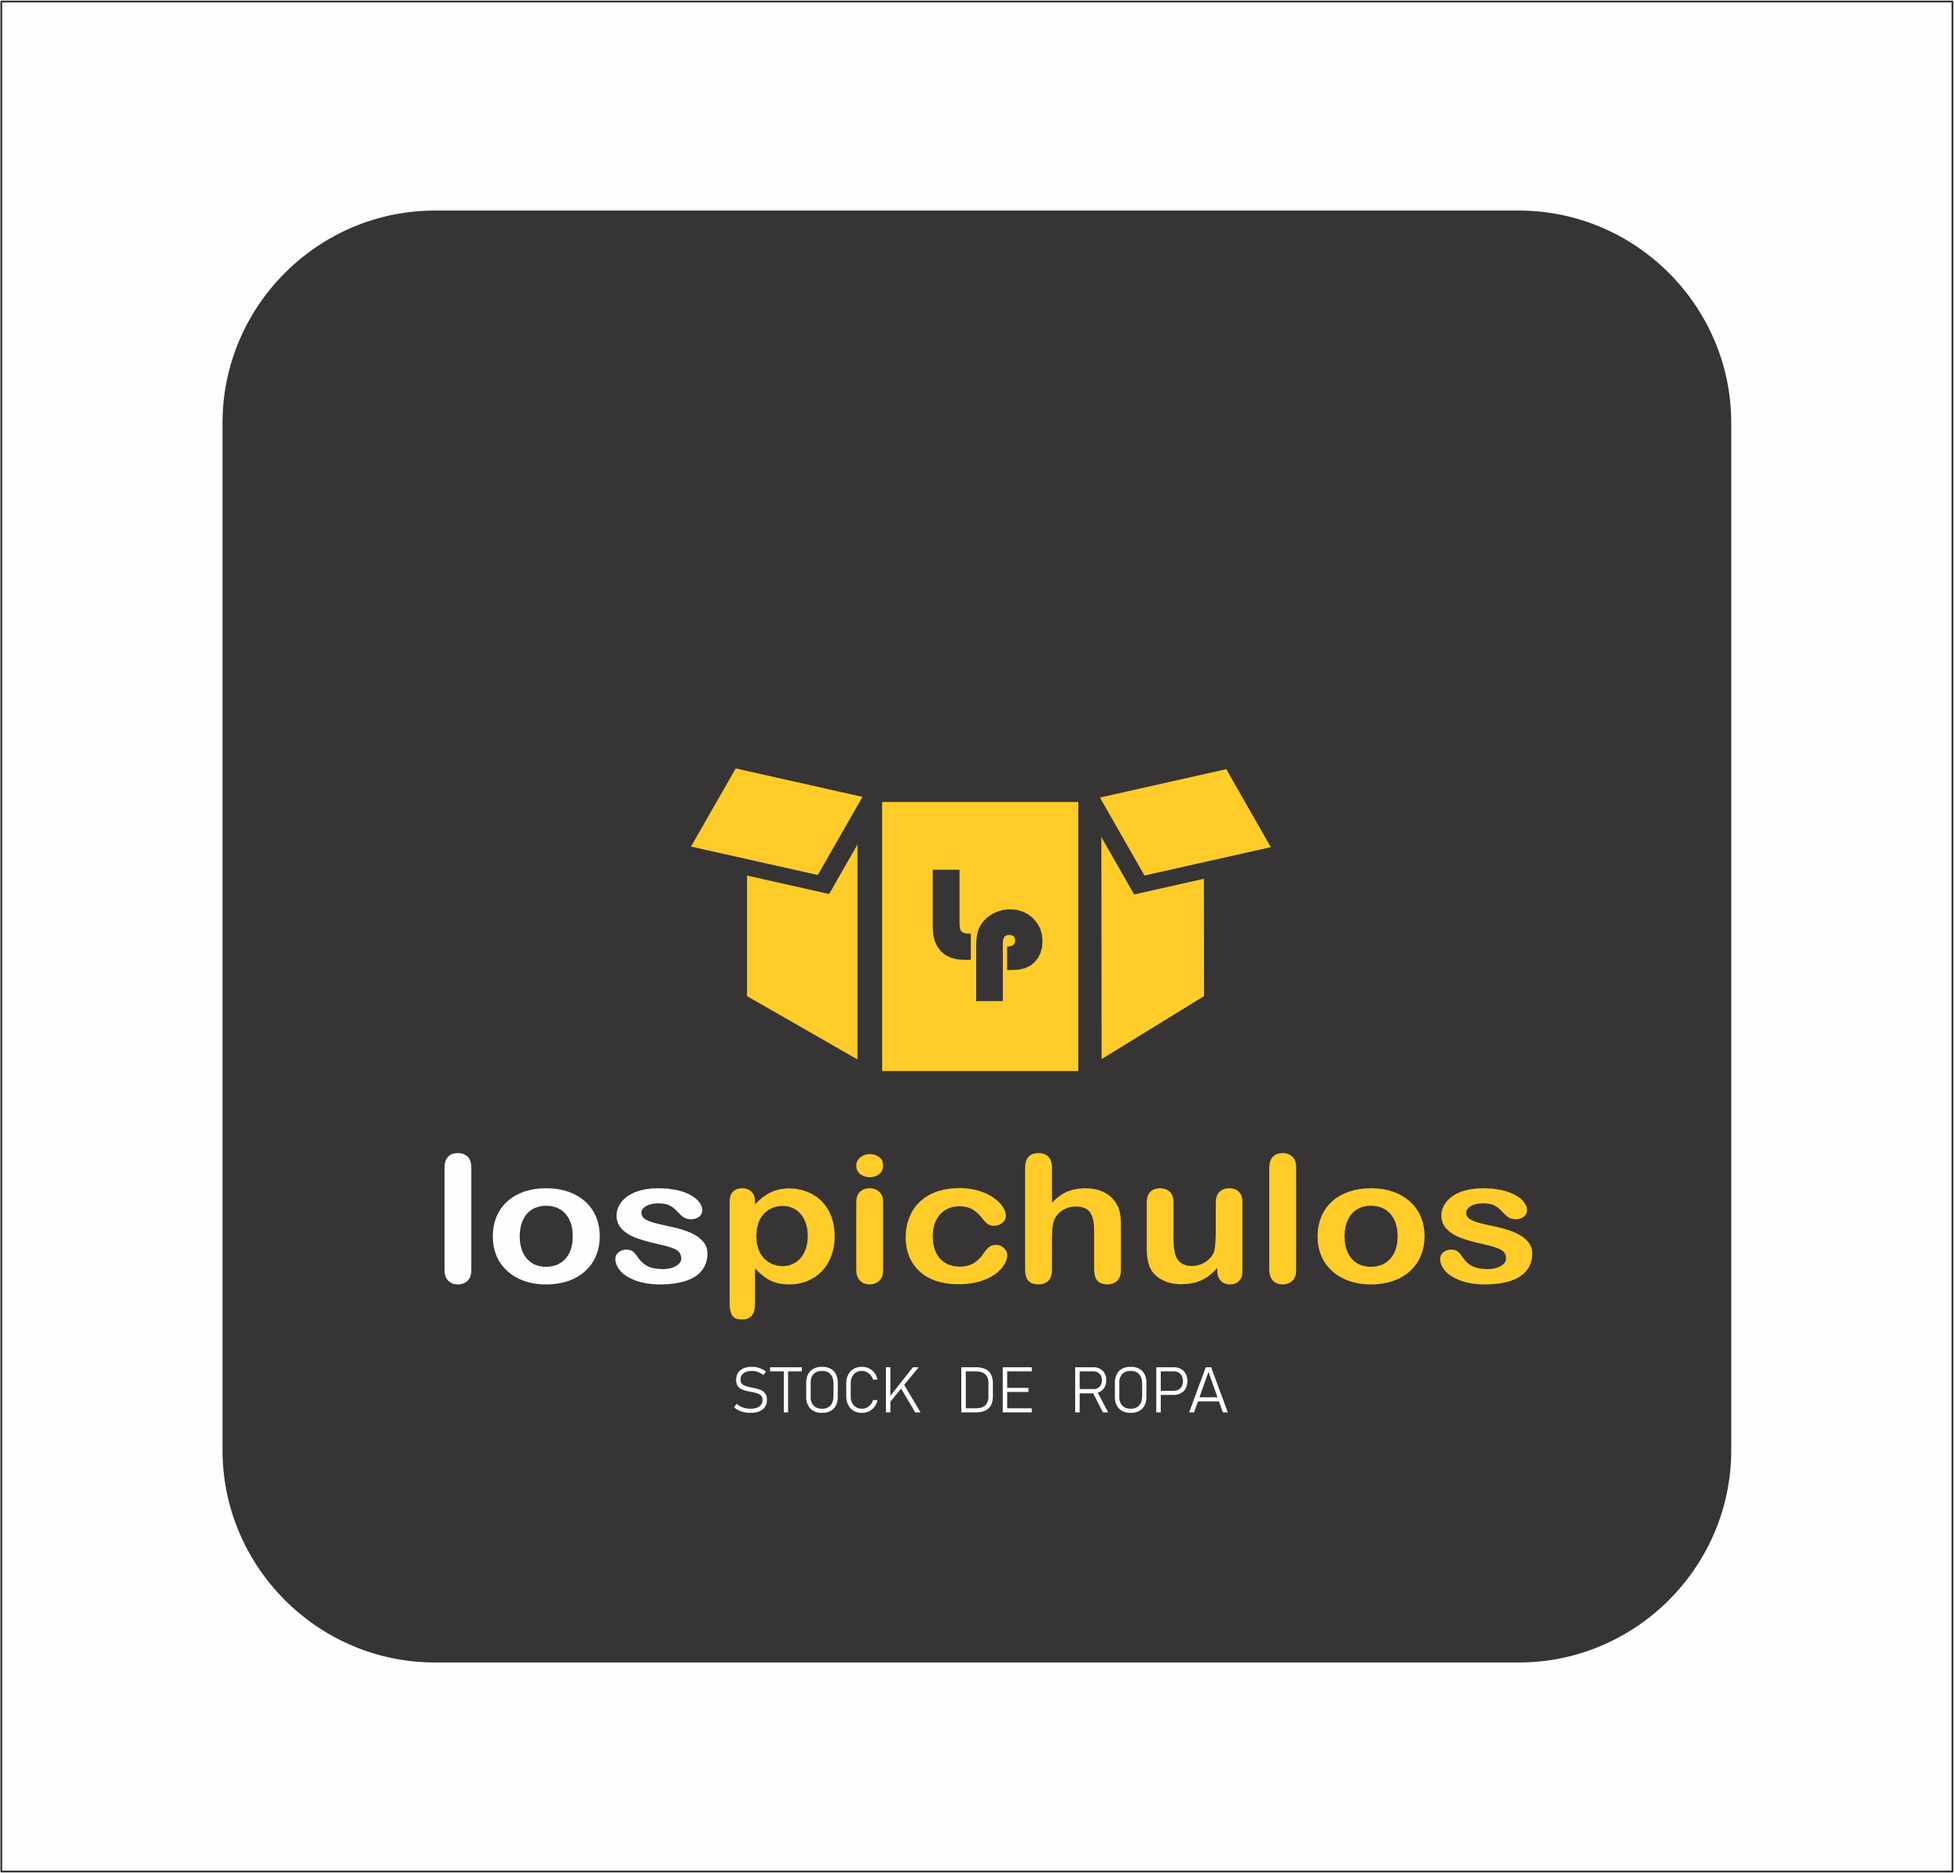
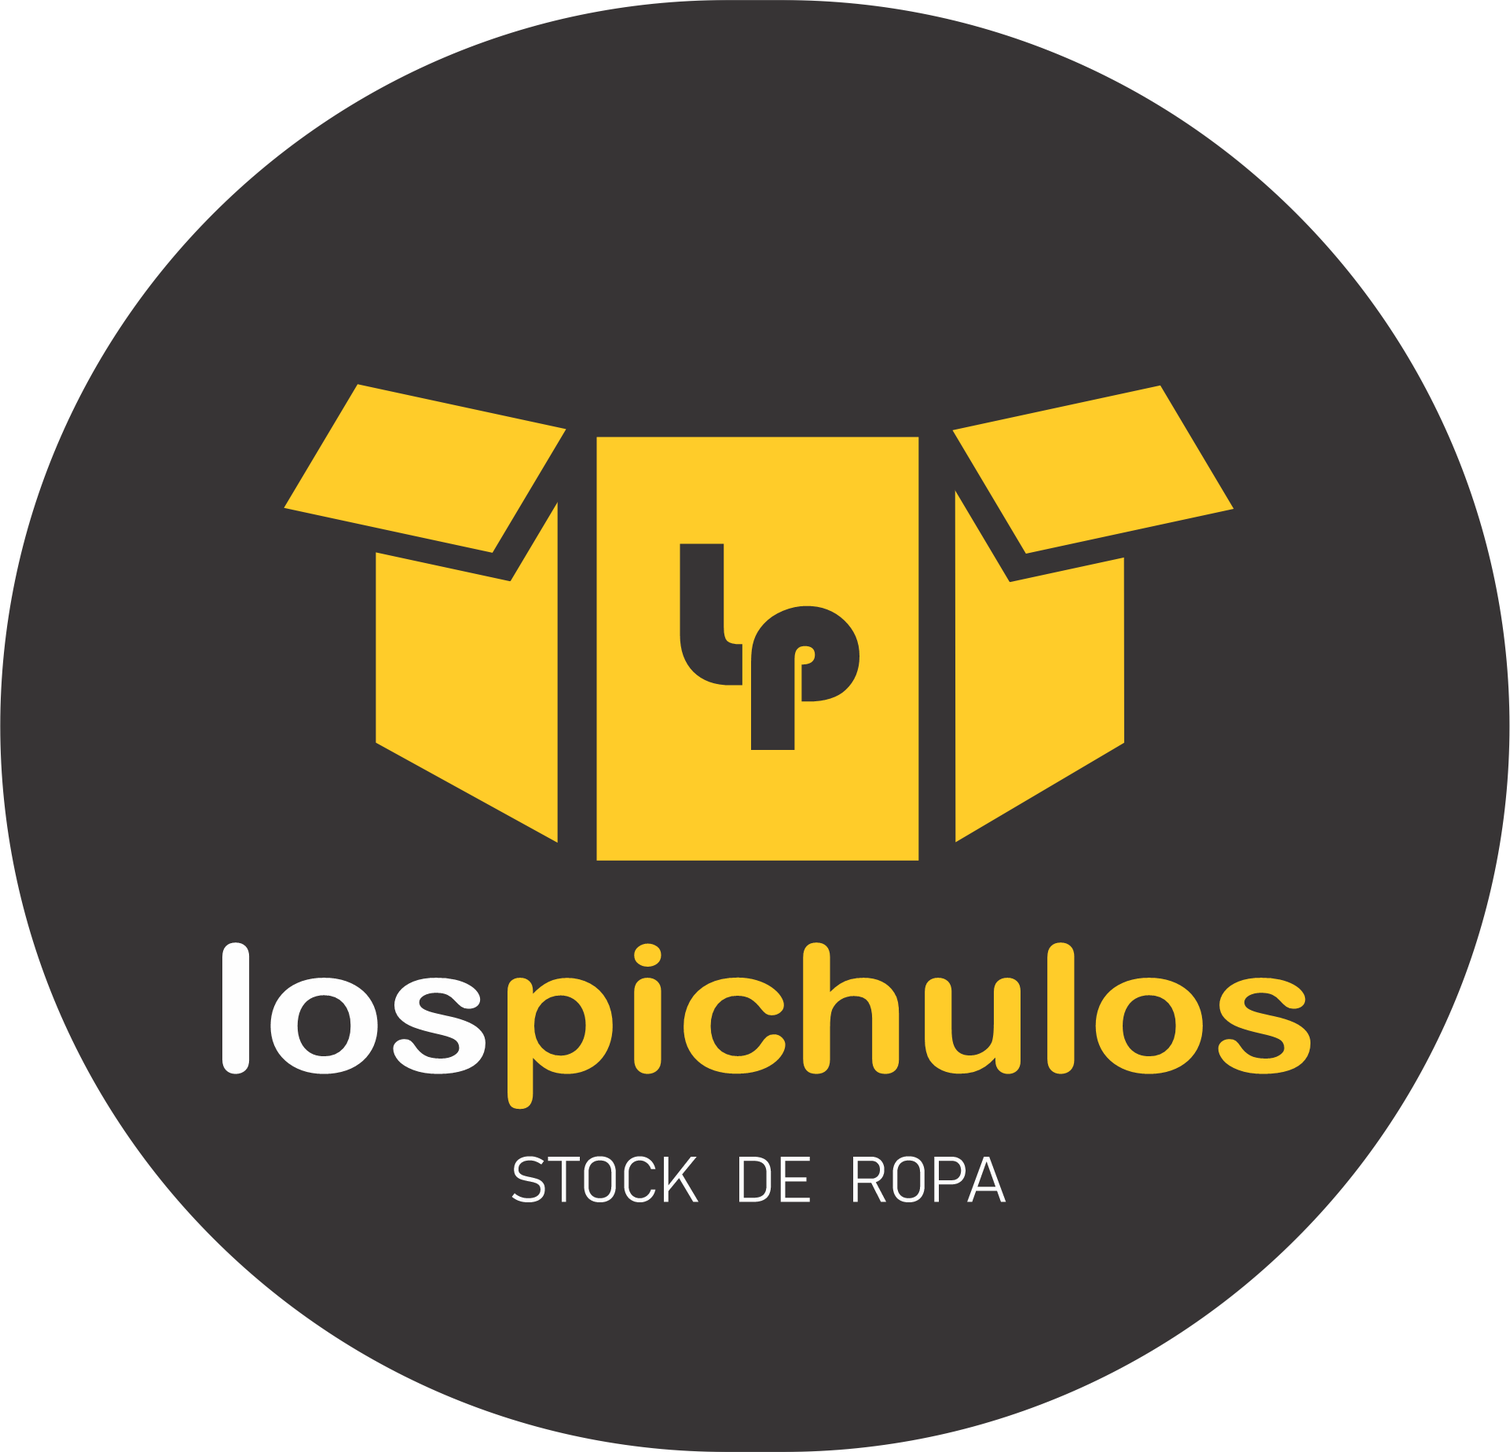
cambios en el practico
se puso logo nuevo

diff --git a/practicon°4/iniarsesion.html b/practicon°4/iniarsesion.html
@@ -13,9 +13,9 @@
 
     <section class="logo">
 
-      <div class="icon"><img src="img/pichulos venta de stock.png" alt="Logo"></div>
+      <div class="icon"><img src="img/pichulos venta de stock.png" alt="logo"></div>
 
-    <p>Stock de ropa</p>
+    <p>Bienvenido a Los Pichulos</p>
 
     </section>
 
@@ -81,7 +81,7 @@
 
     .logo p{
       color: #ffffff;
-      font-size: 15px;
+      font-size: 25px;
       margin-top: 5px;
     }
 
@@ -139,9 +139,11 @@
     }
     
     .icon img{
-      width: 150px;
+      width: 200px;
+      
     }
-/* los iphones */
+    
+/* los iphones para ajustar */
 @media (max-width: 768px){
 
   .login-box{
